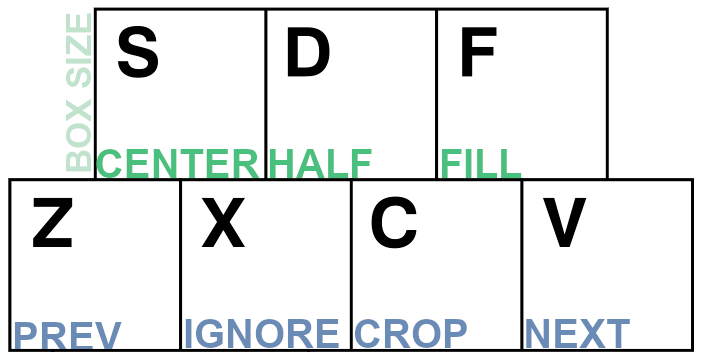
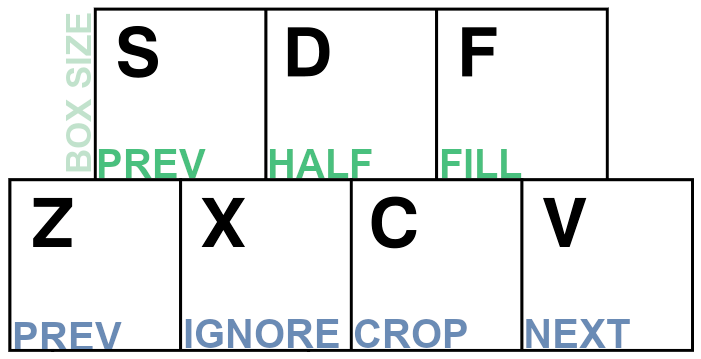
implement mask shortcuts

Changed region(s): [[0.1198, 0.3983, 0.3894, 0.5209]]

diff --git a/web/crop.js b/web/crop.js
@@ -40,12 +40,53 @@ function crop_disable_shortcuts() {
 	document.removeEventListener('keyup', crop_shortcuts, false);
 }
 
+function crop_mask_prev() {
+	if (crop_data["current"] == 0) {
+		return
+	}
+	crop.setData(crop_data["images"][crop_data["current"]-1]["crop_data"])
+}
+
+function crop_mask_fill() {
+	let crop_data = crop.getData()
+	if (crop.image.naturalHeight  > crop.image.naturalWidth) {
+		crop_data.width = crop.image.naturalWidth
+		crop_data.height = crop.image.naturalWidth
+		crop_data.x = 0
+		if (crop_data.y > (crop.image.naturalHeight-crop.image.naturalWidth)) {
+			crop_data.y = crop.image.naturalHeight-crop.image.naturalWidth
+		}
+	} else {
+		crop_data.width = crop.image.naturalHeight
+		crop_data.height = crop.image.naturalHeight
+		crop_data.y = 0
+		if (crop_data.x > (crop.image.naturalWidth-crop.image.naturalHeight)) {
+			crop_data.x = crop.image.naturalWidth-crop.image.naturalHeight
+		}
+	}
+	crop.setData(crop_data)
+}
+function crop_mask_half() {
+	let crop_data = crop.getData()
+	if (crop.image.naturalHeight  > crop.image.naturalWidth) {
+		crop_data.width = crop.image.naturalWidth / 2
+		crop_data.height = crop.image.naturalWidth /2
+	} else {
+		crop_data.width = crop.image.naturalHeight / 2
+		crop_data.height = crop.image.naturalHeight /2
+	}
+	crop.setData(crop_data)
+}
+
 function crop_shortcuts(e) {
 	// console.log(e)
 	if (e.key === 'z') { crop_prev_image() //next
 	} else if (e.key === 'x') { crop_next_image(false,true) // ignore+next
 	} else if (e.key === 'c') { crop_next_image(true) // crop+next
 	} else if (e.key === 'v') { crop_next_image() //next
+	} else if (e.key === 's') { crop_mask_prev() // mask from prev
+	} else if (e.key === 'd') { crop_mask_half() // mask half
+	} else if (e.key === 'f') { crop_mask_fill() // mask fill
 	} else {
 		console.log(e)
 	}

diff --git a/web/index.html b/web/index.html
@@ -88,6 +88,11 @@
 		<h2>Current Image: <span id="c_status">-</span></h2>
 		<input type="checkbox" id="c_skip"> Only show Uncropped 
 		<br>
+		<a>Mask:</a>
+		<button style="font-size:20px" id="cm_prev" onclick="crop_mask_prev()"> Copy Mask </button>
+		<button style="font-size:20px" id="cm_half" onclick="crop_mask_half()"> Half Mask </button>
+		<button style="font-size:20px" id="cm_fill" onclick="crop_mask_fill()"> Fill mask </button>
+		<br>
 		<button style="font-size:40px" id="c_first" onclick="crop_first_image()"> First </button>
 		<button style="font-size:40px" id="c_prev" onclick="crop_prev_image()"> Prev </button>
 		<button style="font-size:40px" id="c_ignore" onclick="crop_next_image(false,true)"> Ignore+Next </button>
